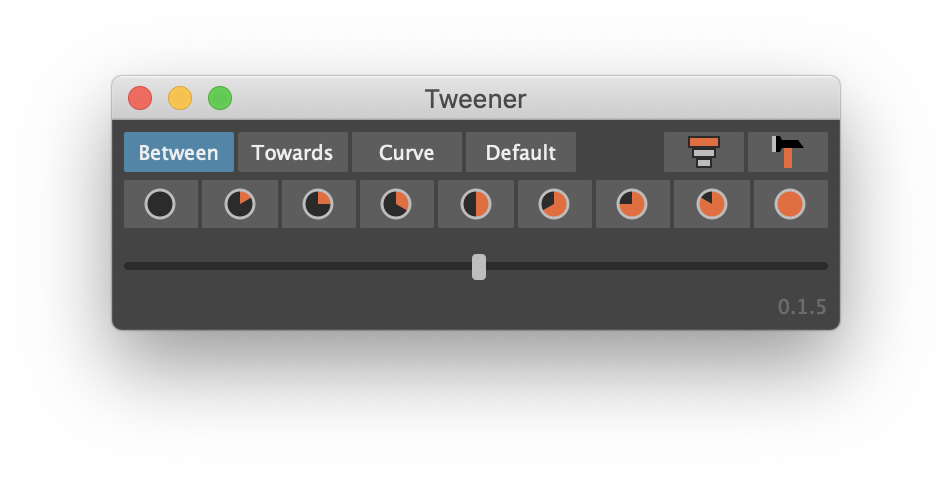
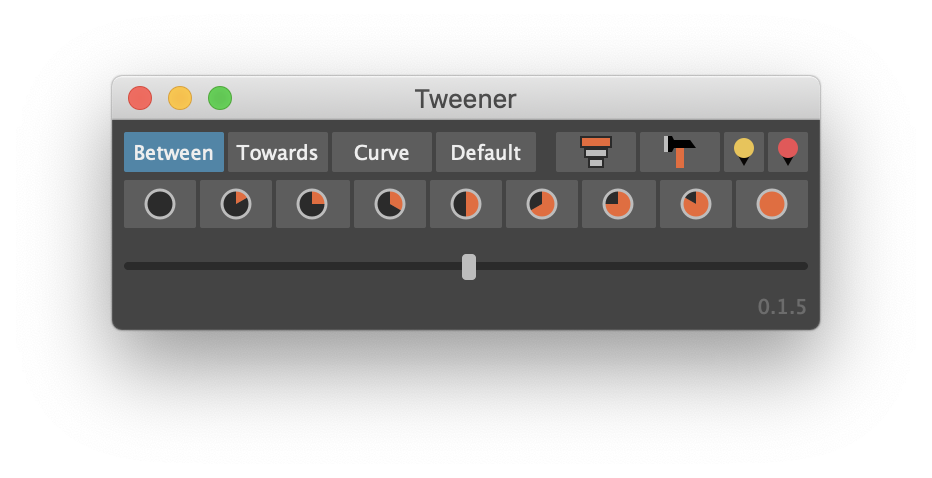
Added tick draw special.

diff --git a/mods/ui.py b/mods/ui.py
@@ -19,6 +19,7 @@ from shiboken2 import wrapInstance
 
 import globals as g
 import tween
+import utils
 
 tweener_window = None
 
@@ -48,7 +49,7 @@ def show():
 def close():
     if cmds.workspaceControl('tweenerUIWindowWorkspaceControl', exists=True):
         cmds.deleteUI('tweenerUIWindowWorkspaceControl')
-        
+
 
 def add_shelf_button(path=None):
     """
@@ -95,7 +96,7 @@ class TweenerUI(MayaQWidgetDockableMixin, QMainWindow):
         self.idle_callback = None
         
         # define window dimensions
-        self.setMinimumWidth(360)
+        self.setMinimumWidth(350)
         self.setSizePolicy(QSizePolicy.Minimum, QSizePolicy.Minimum)
         
         # style
@@ -170,8 +171,18 @@ class TweenerUI(MayaQWidgetDockableMixin, QMainWindow):
         self.keyhammer_btn.clicked.connect(self.keyhammer_button_clicked)
         self.keyhammer_btn.setToolTip('Hammer Keys')
         
+        self.tick_draw_special_btn = ModeButton(icon='icons/tick-special.svg', is_checkable=False, mini_button=True)
+        self.tick_draw_special_btn.clicked.connect(self.tick_draw_special_clicked)
+        self.tick_draw_special_btn.setToolTip('Set special tick color for keyframe')
+
+        self.tick_draw_normal_btn = ModeButton(icon='icons/tick-normal.svg', is_checkable=False, mini_button=True)
+        self.tick_draw_normal_btn.clicked.connect(self.tick_draw_normal_clicked)
+        self.tick_draw_normal_btn.setToolTip('Set normal tick color for keyframe')
+        
         misc_button_layout.addWidget(self.overshoot_btn)
         misc_button_layout.addWidget(self.keyhammer_btn)
+        misc_button_layout.addWidget(self.tick_draw_special_btn)
+        misc_button_layout.addWidget(self.tick_draw_normal_btn)
         
         # slider
         slider_layout = QVBoxLayout(main_widget)
@@ -253,7 +264,7 @@ class TweenerUI(MayaQWidgetDockableMixin, QMainWindow):
         
         self.load_preferences()
         self.set_mode_button()
-        
+    
     def slider_pressed(self):
         slider_value = self.slider.value()
         
@@ -365,6 +376,12 @@ class TweenerUI(MayaQWidgetDockableMixin, QMainWindow):
     def keyhammer_button_clicked(self):
         cmds.keyHammer()
     
+    def tick_draw_special_clicked(self):
+        tween.tick_draw_special(special=True)
+    
+    def tick_draw_normal_clicked(self):
+        tween.tick_draw_special(special=False)
+    
     @staticmethod
     def v_separator_layout():
         layout = QVBoxLayout()
@@ -411,16 +428,24 @@ class ModeButton(QPushButton):
     Subclass for creating the mode buttons (between, towards, curve, default...)
     """
     
-    def __init__(self, label='', icon=None, is_checkable=True):
+    def __init__(self, label='', icon=None, is_checkable=True, mini_button=False):
         super(ModeButton, self).__init__(label)
         
-        self.setMinimumSize(55, 20)
+        if mini_button:
+            self.setMinimumSize(30, 20)
+        else:
+            self.setMinimumSize(50, 20)
+            
         self.setSizePolicy(QSizePolicy.Fixed, QSizePolicy.Minimum)
         self.setCheckable(is_checkable)
         self.setStyleSheet("font: 10px;")
         
         if icon:
-            self.setFixedSize(40, 20)
+            if mini_button:
+                self.setFixedSize(20, 20)
+            else:
+                self.setFixedSize(40, 20)
+                
             self.setContentsMargins(0, 0, 0, 0)
             path = g.plugin_path + icon
             qicon = QIcon(path)

diff --git a/mods/tween.py b/mods/tween.py
@@ -146,3 +146,15 @@ def lerp_towards(a, b, t, current):
         return lerp_between(current, b, tRemapped)
     else:
         return current
+
+
+def tick_draw_special(special=True):
+    """
+    Makes the currently selected keyframes use the special tick color
+    """
+    
+    if utils.is_graph_editor():
+        cmds.keyframe(tds=special)
+    else:
+        time_range = utils.get_time_slider_range()
+        cmds.keyframe(tds=special, t=time_range)

diff --git a/README.md b/README.md
@@ -43,6 +43,9 @@ explore each type. See the description of each mode under __Tween Modes__.
 | :---: | :--- | :--- |
 | <img src="icons/overshoot.svg" width="20" height="20"> | Overshoot | Extends the interpolation from `[-100:100]` to `[-200:200]` and allows you to go past the target. |
 | <img src="icons/keyhammer.svg" width="20" height="20"> | Key Hammer | Adds a key for every attribute for any key on selected objects. The manual equivalent method would be to go to the first key and press `S`, go to the next keyframe and press `S`, go to the next keyframe and press `S` etc. for every keyframe. |
+| <img src="icons/tick-special.svg" width="20" height="20"> | Special Tick Color | Sets the current frame, selected keys, or time range to the special keyframe tick color. |
+| <img src="icons/tick-normal.svg" width="20" height="20"> | Normal Tick Color | Sets the current frame, selected keys, or time range to the normal keyframe tick color. |
+
 
 ## Known Limitations
 The tool is still at an early stage and there are few limitations to be aware of. 
